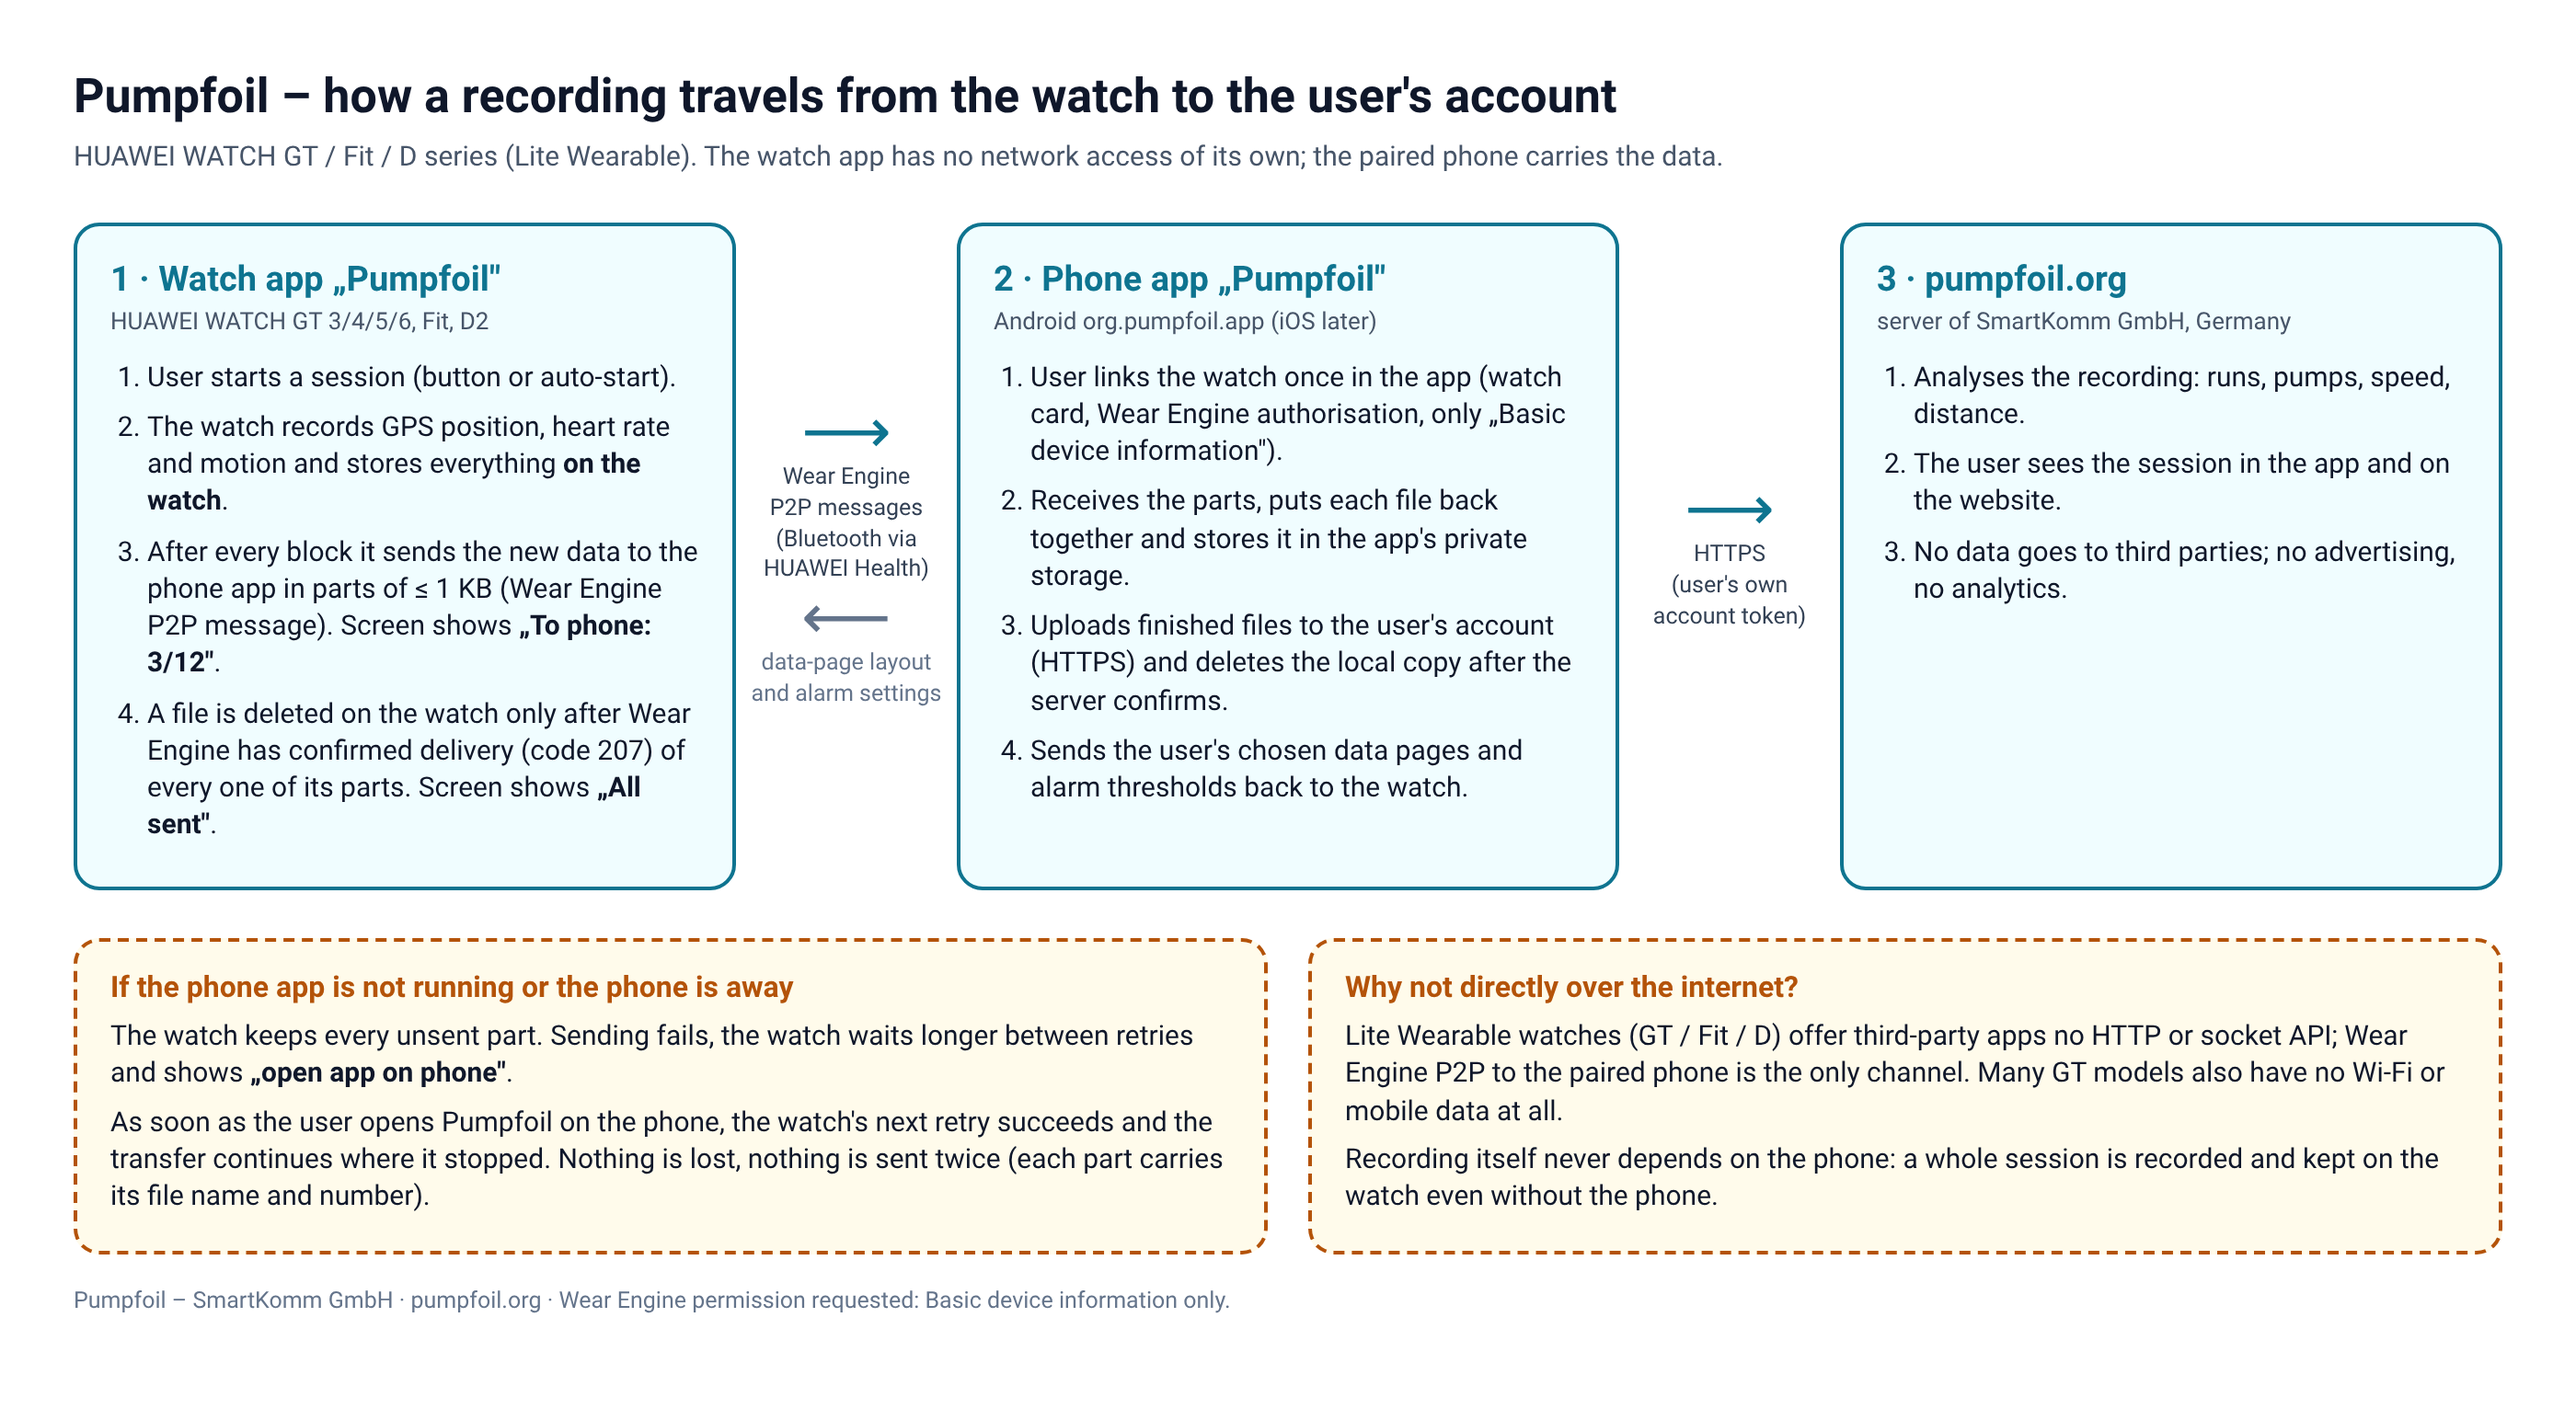
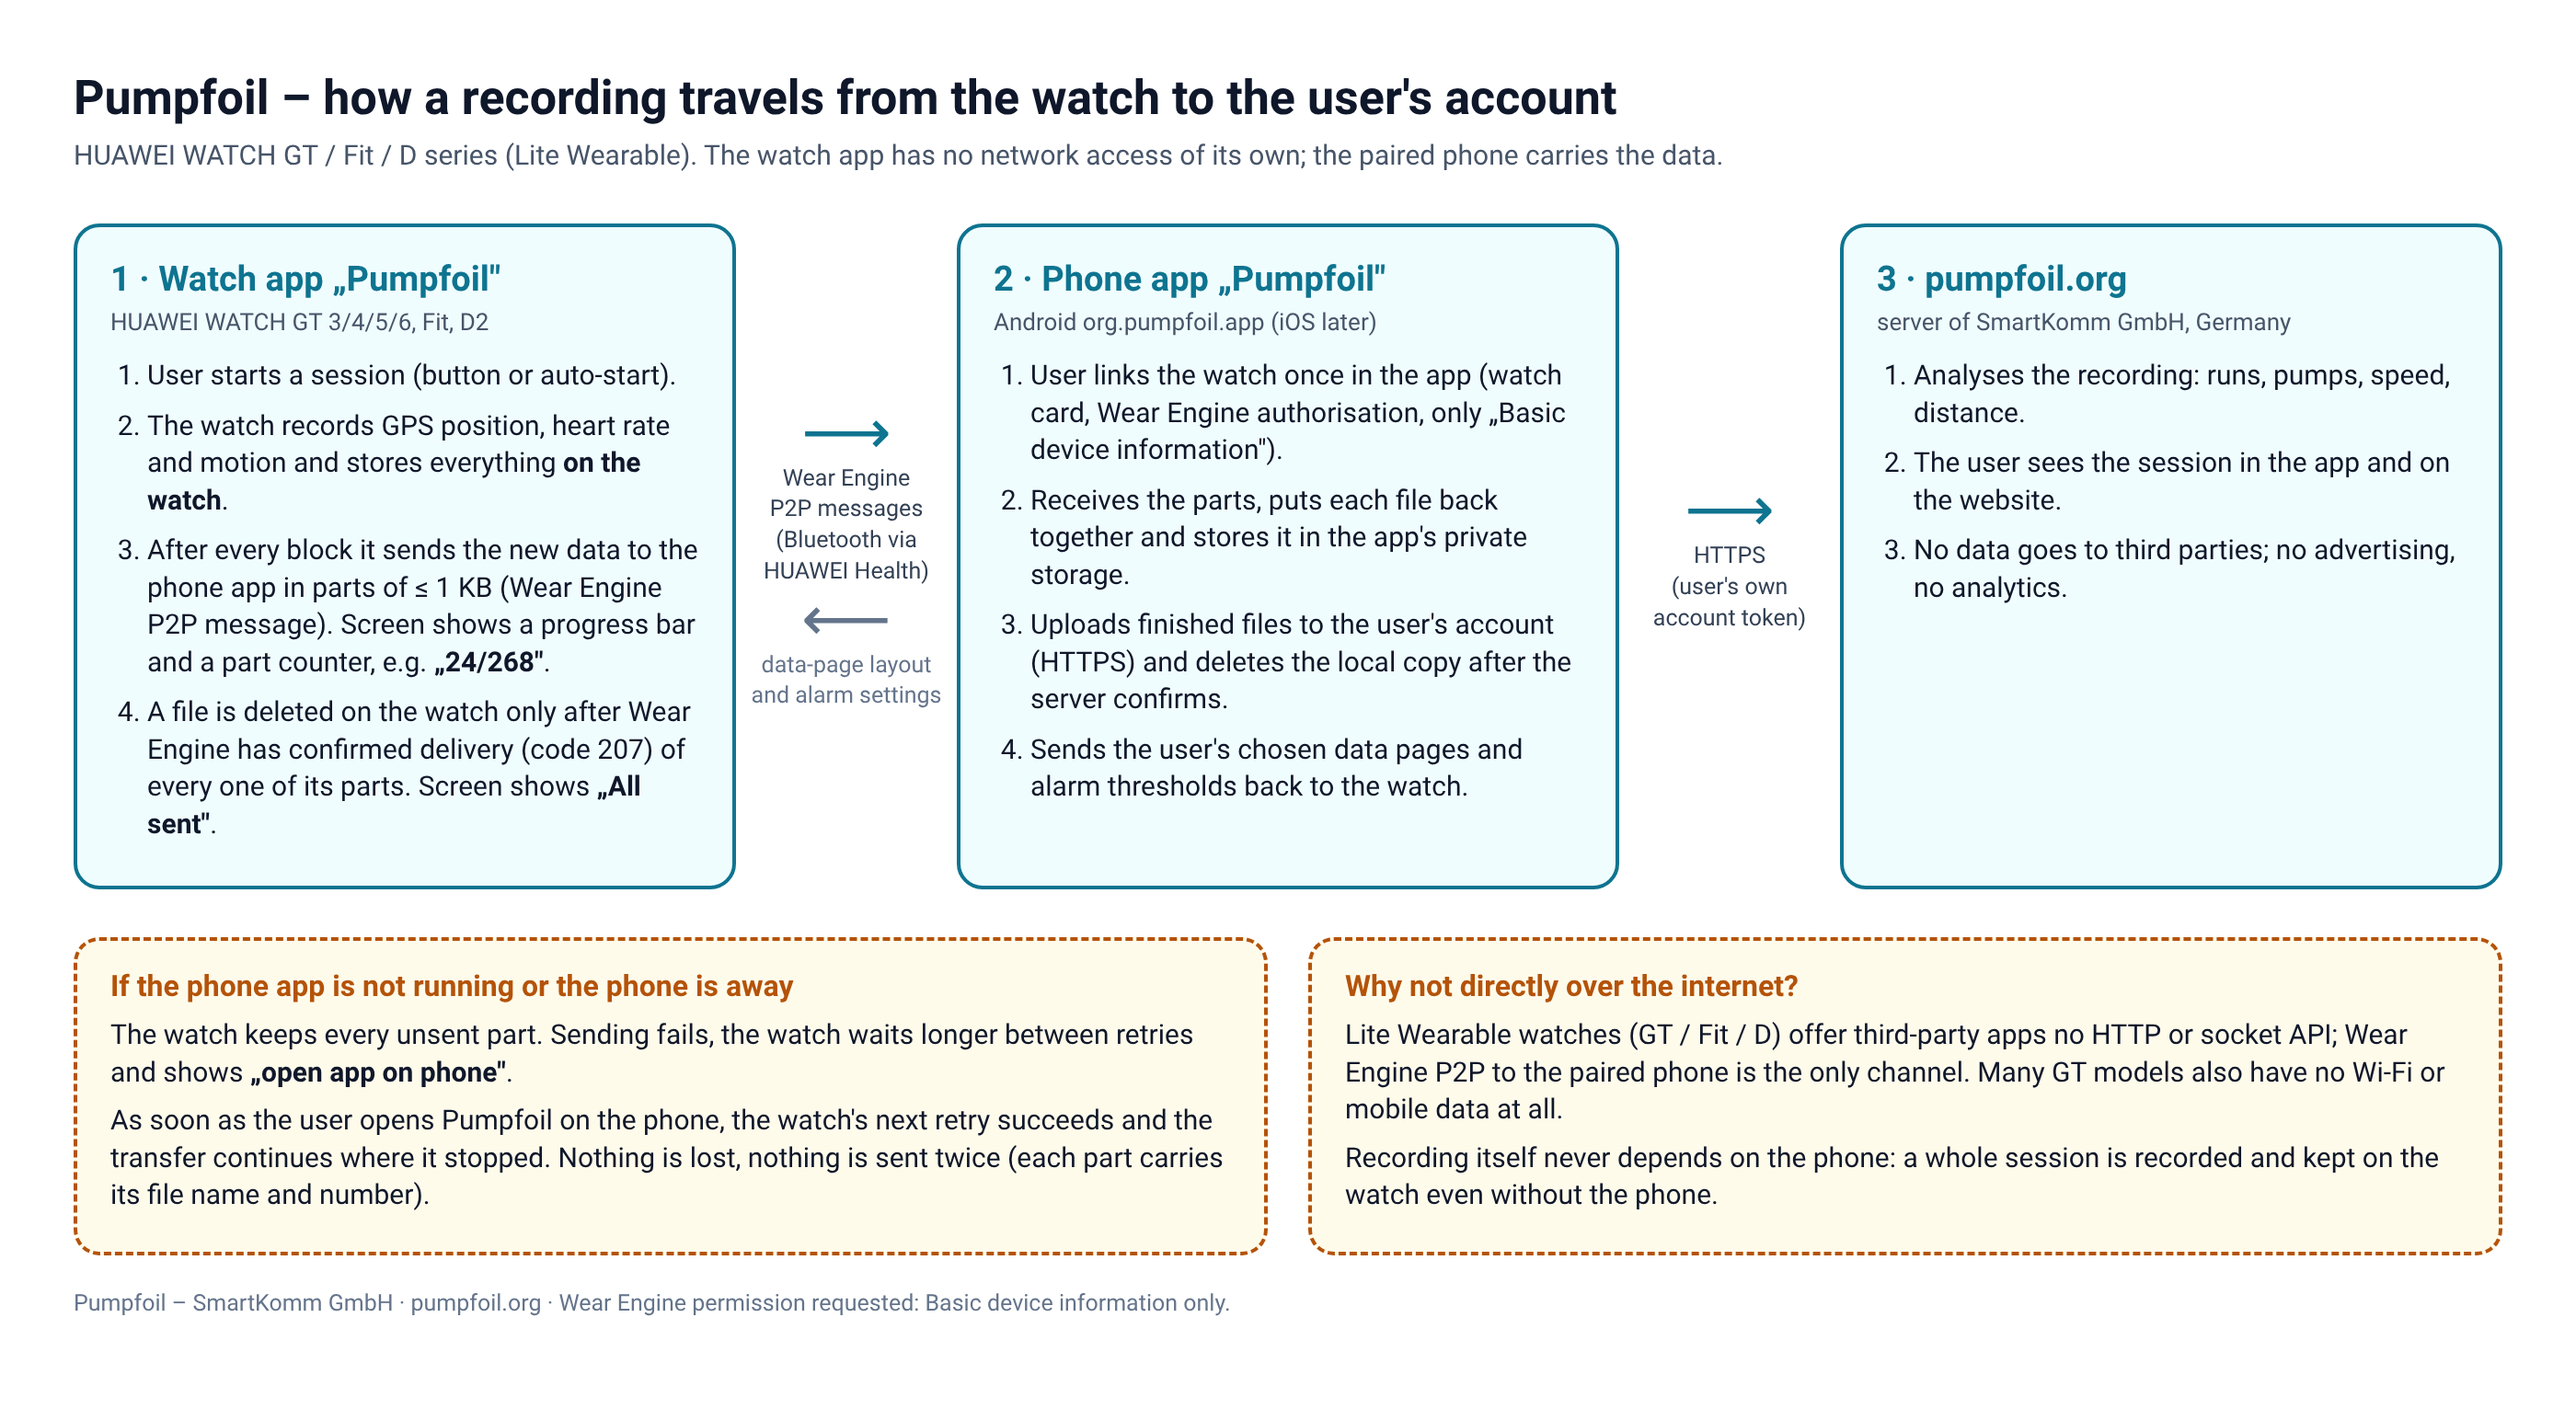
Huawei-Antrag: Ablaufdiagramm nennt den echten Uhrtext (Balken + Zaehler statt To phone)
Claude-Session: https://claude.ai/code/session_01DzYERf63KLzoPfeHSCVWwg

diff --git a/docs/huawei-wear-engine-antrag/ablauf.html b/docs/huawei-wear-engine-antrag/ablauf.html
@@ -31,7 +31,7 @@
     <ol>
       <li>User starts a session (button or auto-start).</li>
       <li>The watch records GPS position, heart rate and motion and stores everything <b>on the watch</b>.</li>
-      <li>After every block it sends the new data to the phone app in parts of ≤ 1 KB (Wear Engine P2P message). Screen shows <b>„To phone: 3/12"</b>.</li>
+      <li>After every block it sends the new data to the phone app in parts of ≤ 1 KB (Wear Engine P2P message). Screen shows a progress bar and a part counter, e.g. <b>„24/268"</b>.</li>
       <li>A file is deleted on the watch only after Wear Engine has confirmed delivery (code 207) of every one of its parts. Screen shows <b>„All sent"</b>.</li>
     </ol>
   </div>
